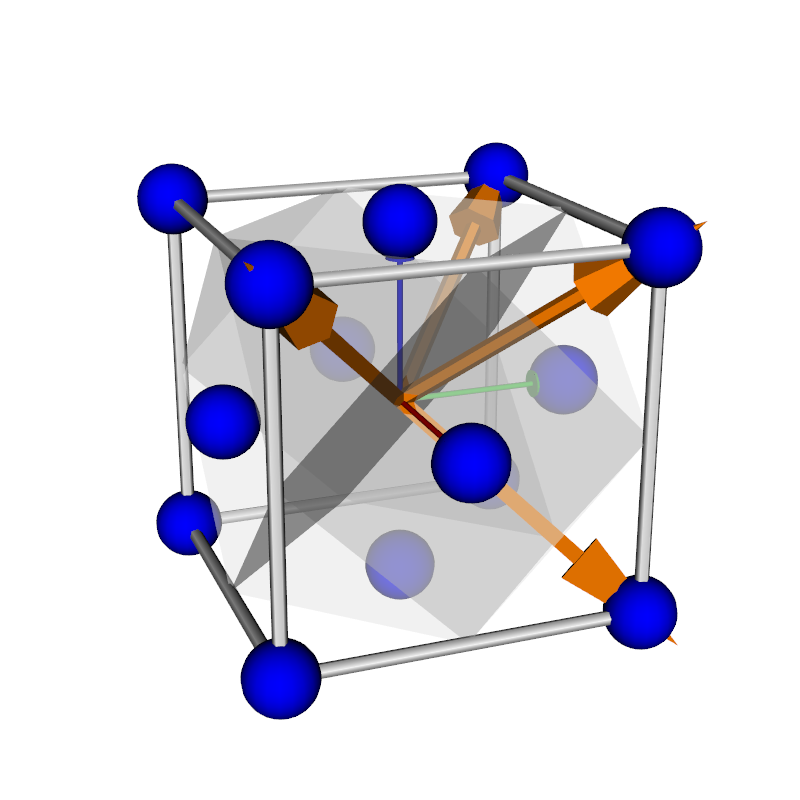
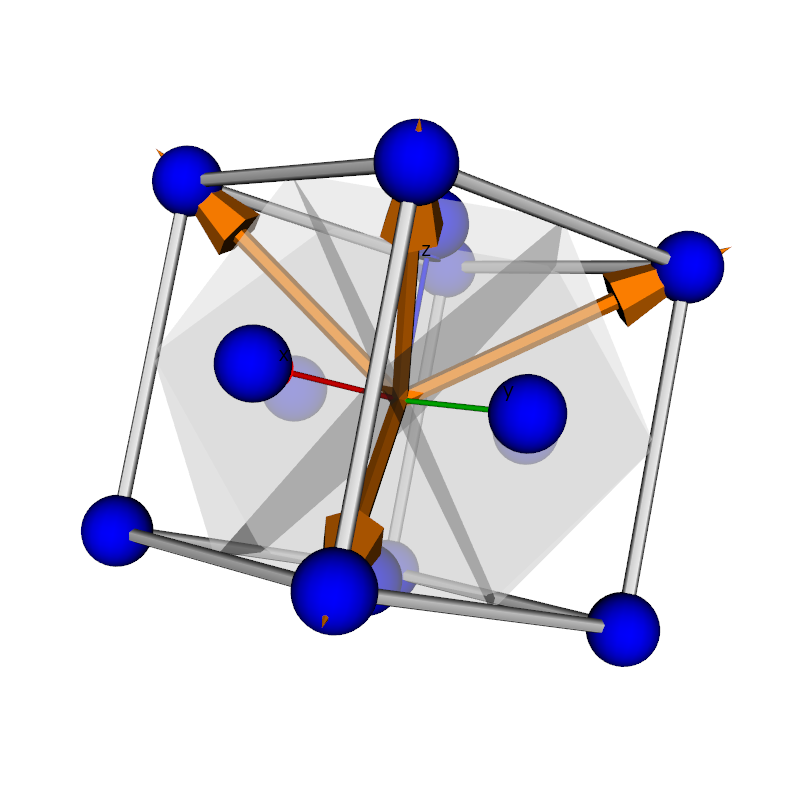
adapted cubic_crystal example to new scene3d code

diff --git a/examples/3d_visualisation/cubic_crystal_3d.py b/examples/3d_visualisation/cubic_crystal_3d.py
@@ -1,17 +1,18 @@
 #!/usr/bin/env python
-import vtk, numpy
+import vtk, numpy, os
 from pymicro.crystal.lattice import Lattice, HklPlane
 from pymicro.crystal.microstructure import Orientation
-from pymicro.view.vtk_utils import *
+from pymicro.view.scene3d import Scene3D
+from pymicro.view.vtk_utils import axes_actor, lattice_3d_with_planes, setup_camera
 
 if __name__ == '__main__':
   '''
   Create a 3d scene with a cubic crystal lattice.
   Hkl planes are added to the lattice and displayed.
   '''
-  # Create the Renderer and RenderWindow
-  ren = vtk.vtkRenderer()
-  ren.SetBackground(1., 1., 1.)
+  # Create the 3D scene
+  base_name = os.path.splitext(__file__)[0]
+  s3d = Scene3D(save=True, display=False, ren_size=(800,800), name=base_name)
 
   # create the unit lattice cell
   l = Lattice.face_centered_cubic(1.0)
@@ -20,21 +21,20 @@ if __name__ == '__main__':
   hklplanes = HklPlane.get_family('111')
   cubic  = lattice_3d_with_planes(l, hklplanes, crystal_orientation=None, \
     show_normal=True, plane_opacity=0.5)
-  ren.AddActor(cubic)
+  s3d.add(cubic)
 
   # add axes actor
   axes = axes_actor(0.5)
-  ren.AddViewProp(axes)
+  s3d.add(axes)
 
   # set up camera and render
   cam = setup_camera(size=(1, 1, 1))
   cam.SetFocalPoint(0, 0, 0)
   cam.SetPosition(4, -1.5, 1.5) # change the position to something better
   cam.Dolly(1.1) # get a little closer
-  ren.SetActiveCamera(cam)
-  image_name = os.path.splitext(__file__)[0] + '.png'
-  print 'writting %s' % image_name
-  render(ren, save=True, display=False, ren_size=(800,800), name=image_name)
+  s3d.set_camera(cam)
+  s3d.render(key_pressed_callback=s3d.pymicro_callback)
 
   from matplotlib import image
+  image_name = base_name + '.png'
   image.thumbnail(image_name, 'thumb_' + image_name, 0.2)

diff --git a/view/vtk_utils.py b/view/vtk_utils.py
@@ -269,7 +269,7 @@ def axes_actor(length = 1.0, axisLabels = ('x', 'y', 'z'), fontSize=20):
   
   **length**: The arrow length of the axes (1.0 by default)
   
-  **axisLabels**: Boolean controling if the axes labels are shown (True by default)
+  **axisLabels**: Specify the axes labels (xyz by default), use axisLabels = None to hide the axis labels
   
   **fontSize**: Font size for the axes labels (20 by default)
 
